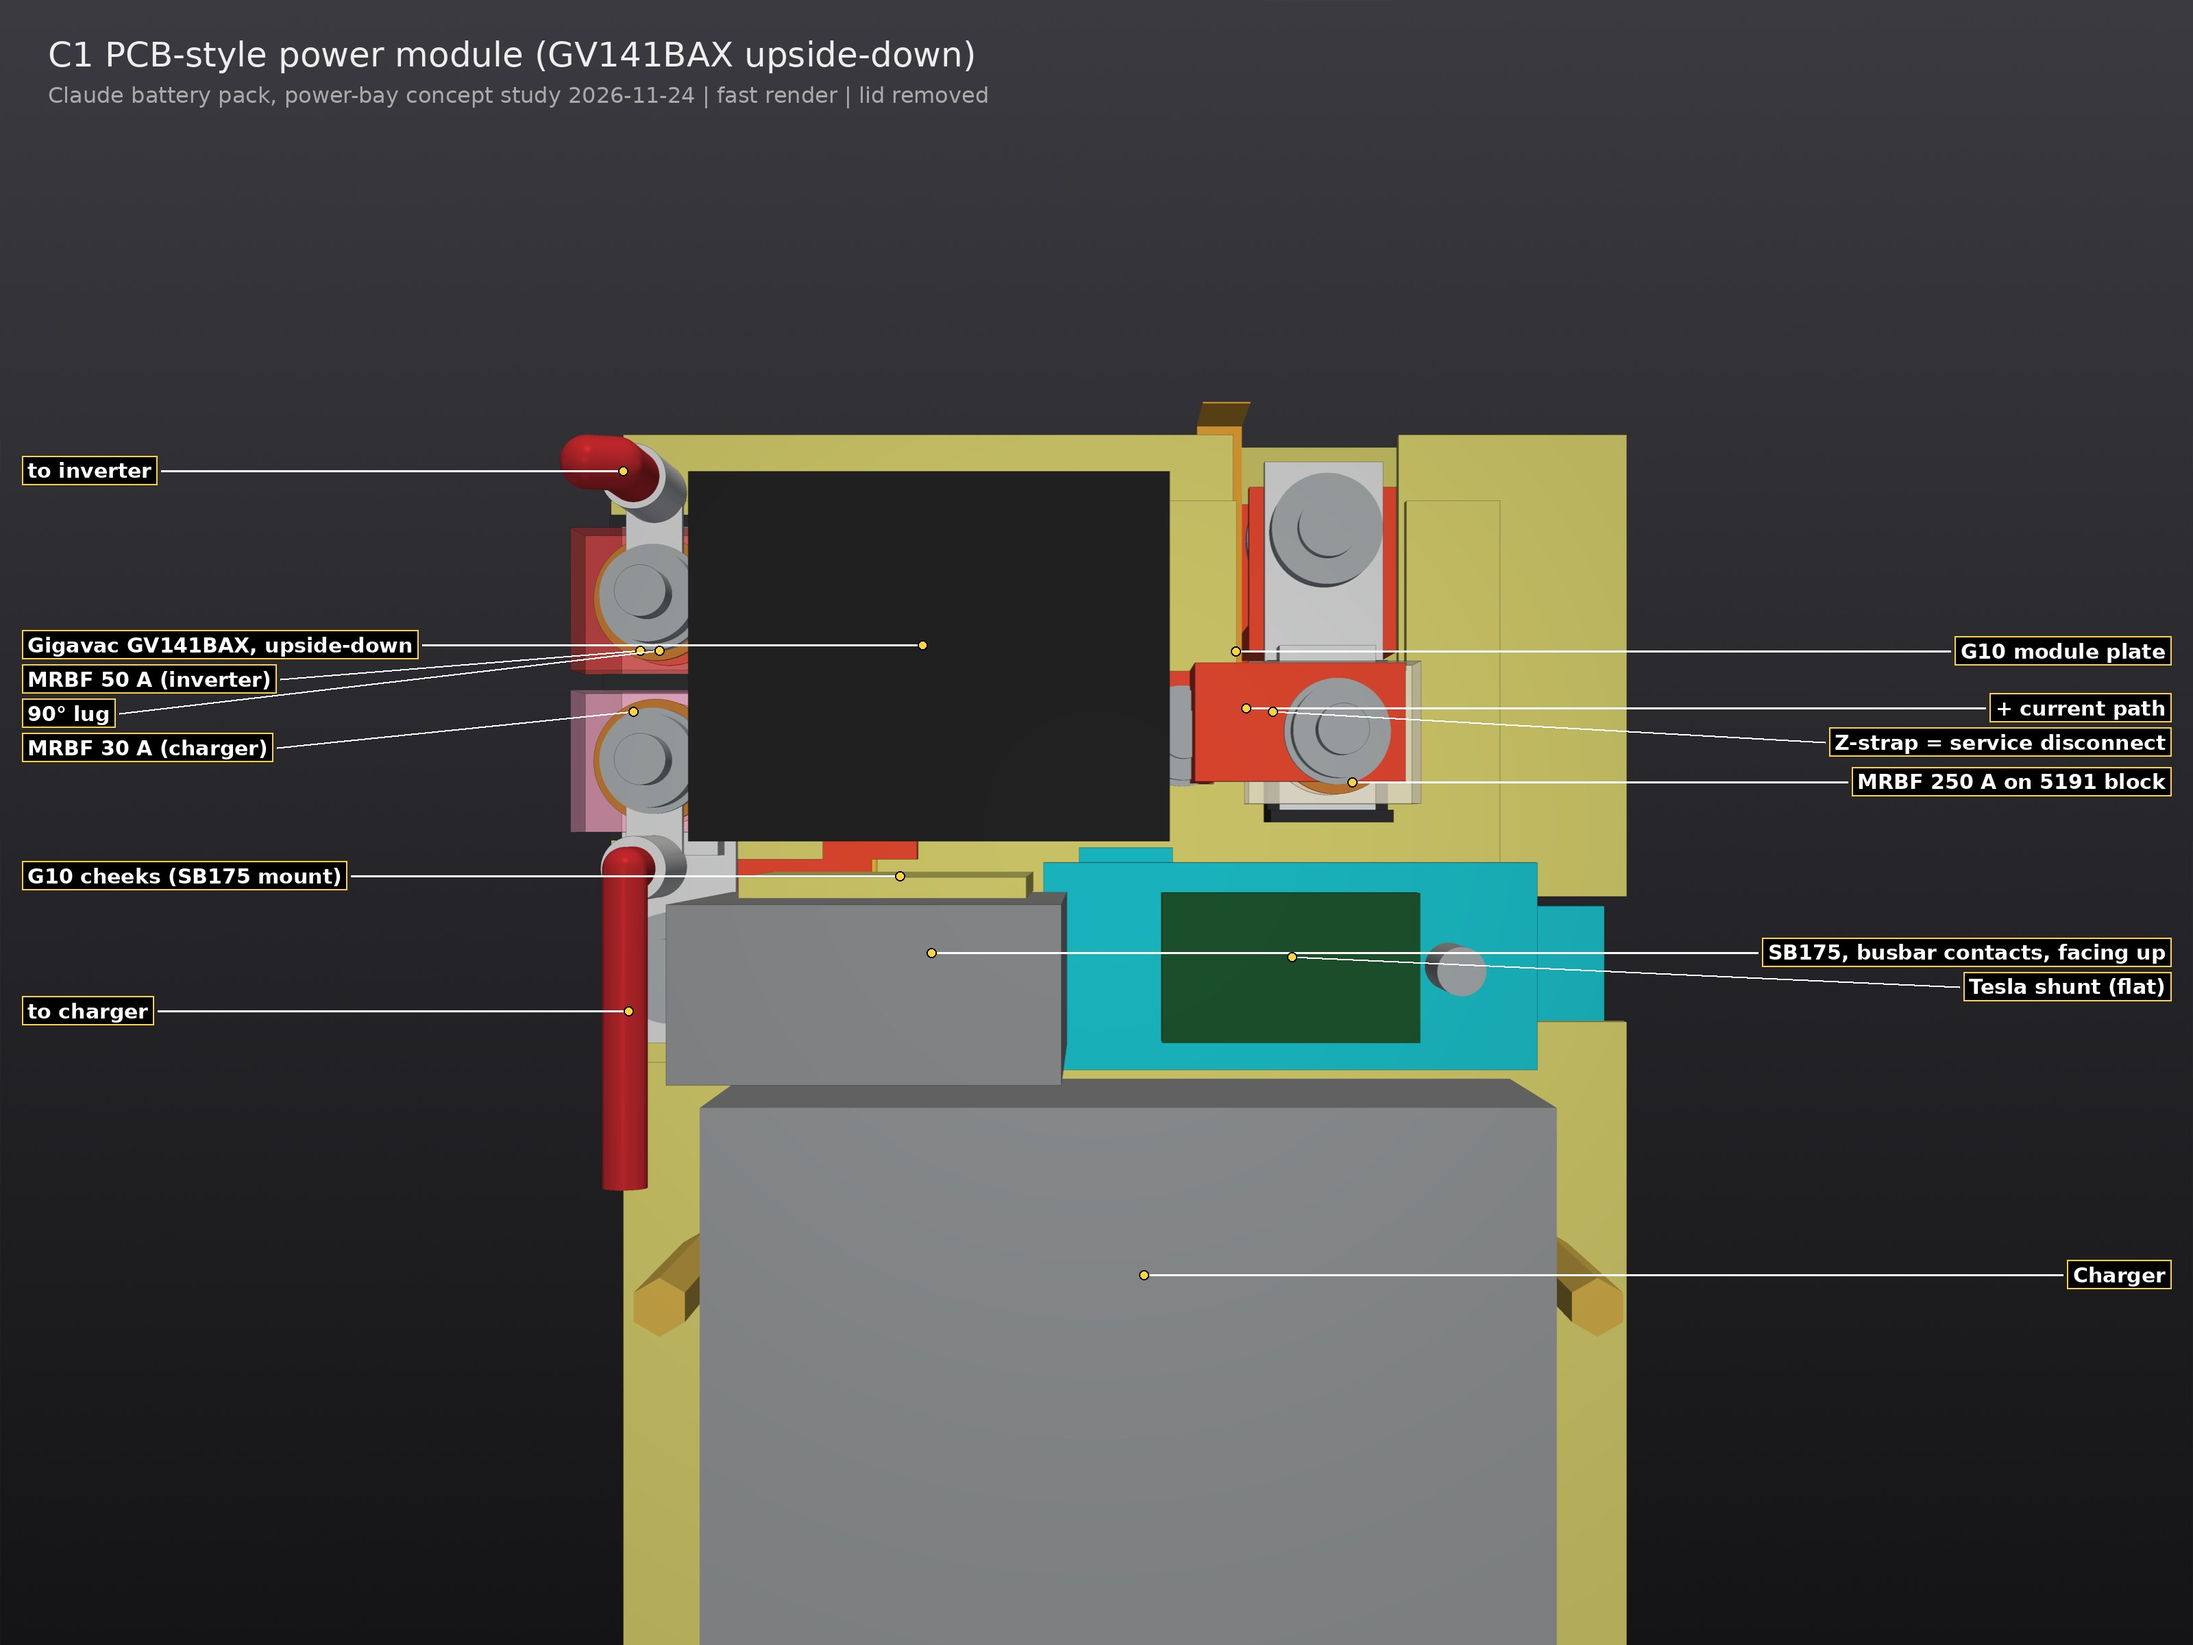
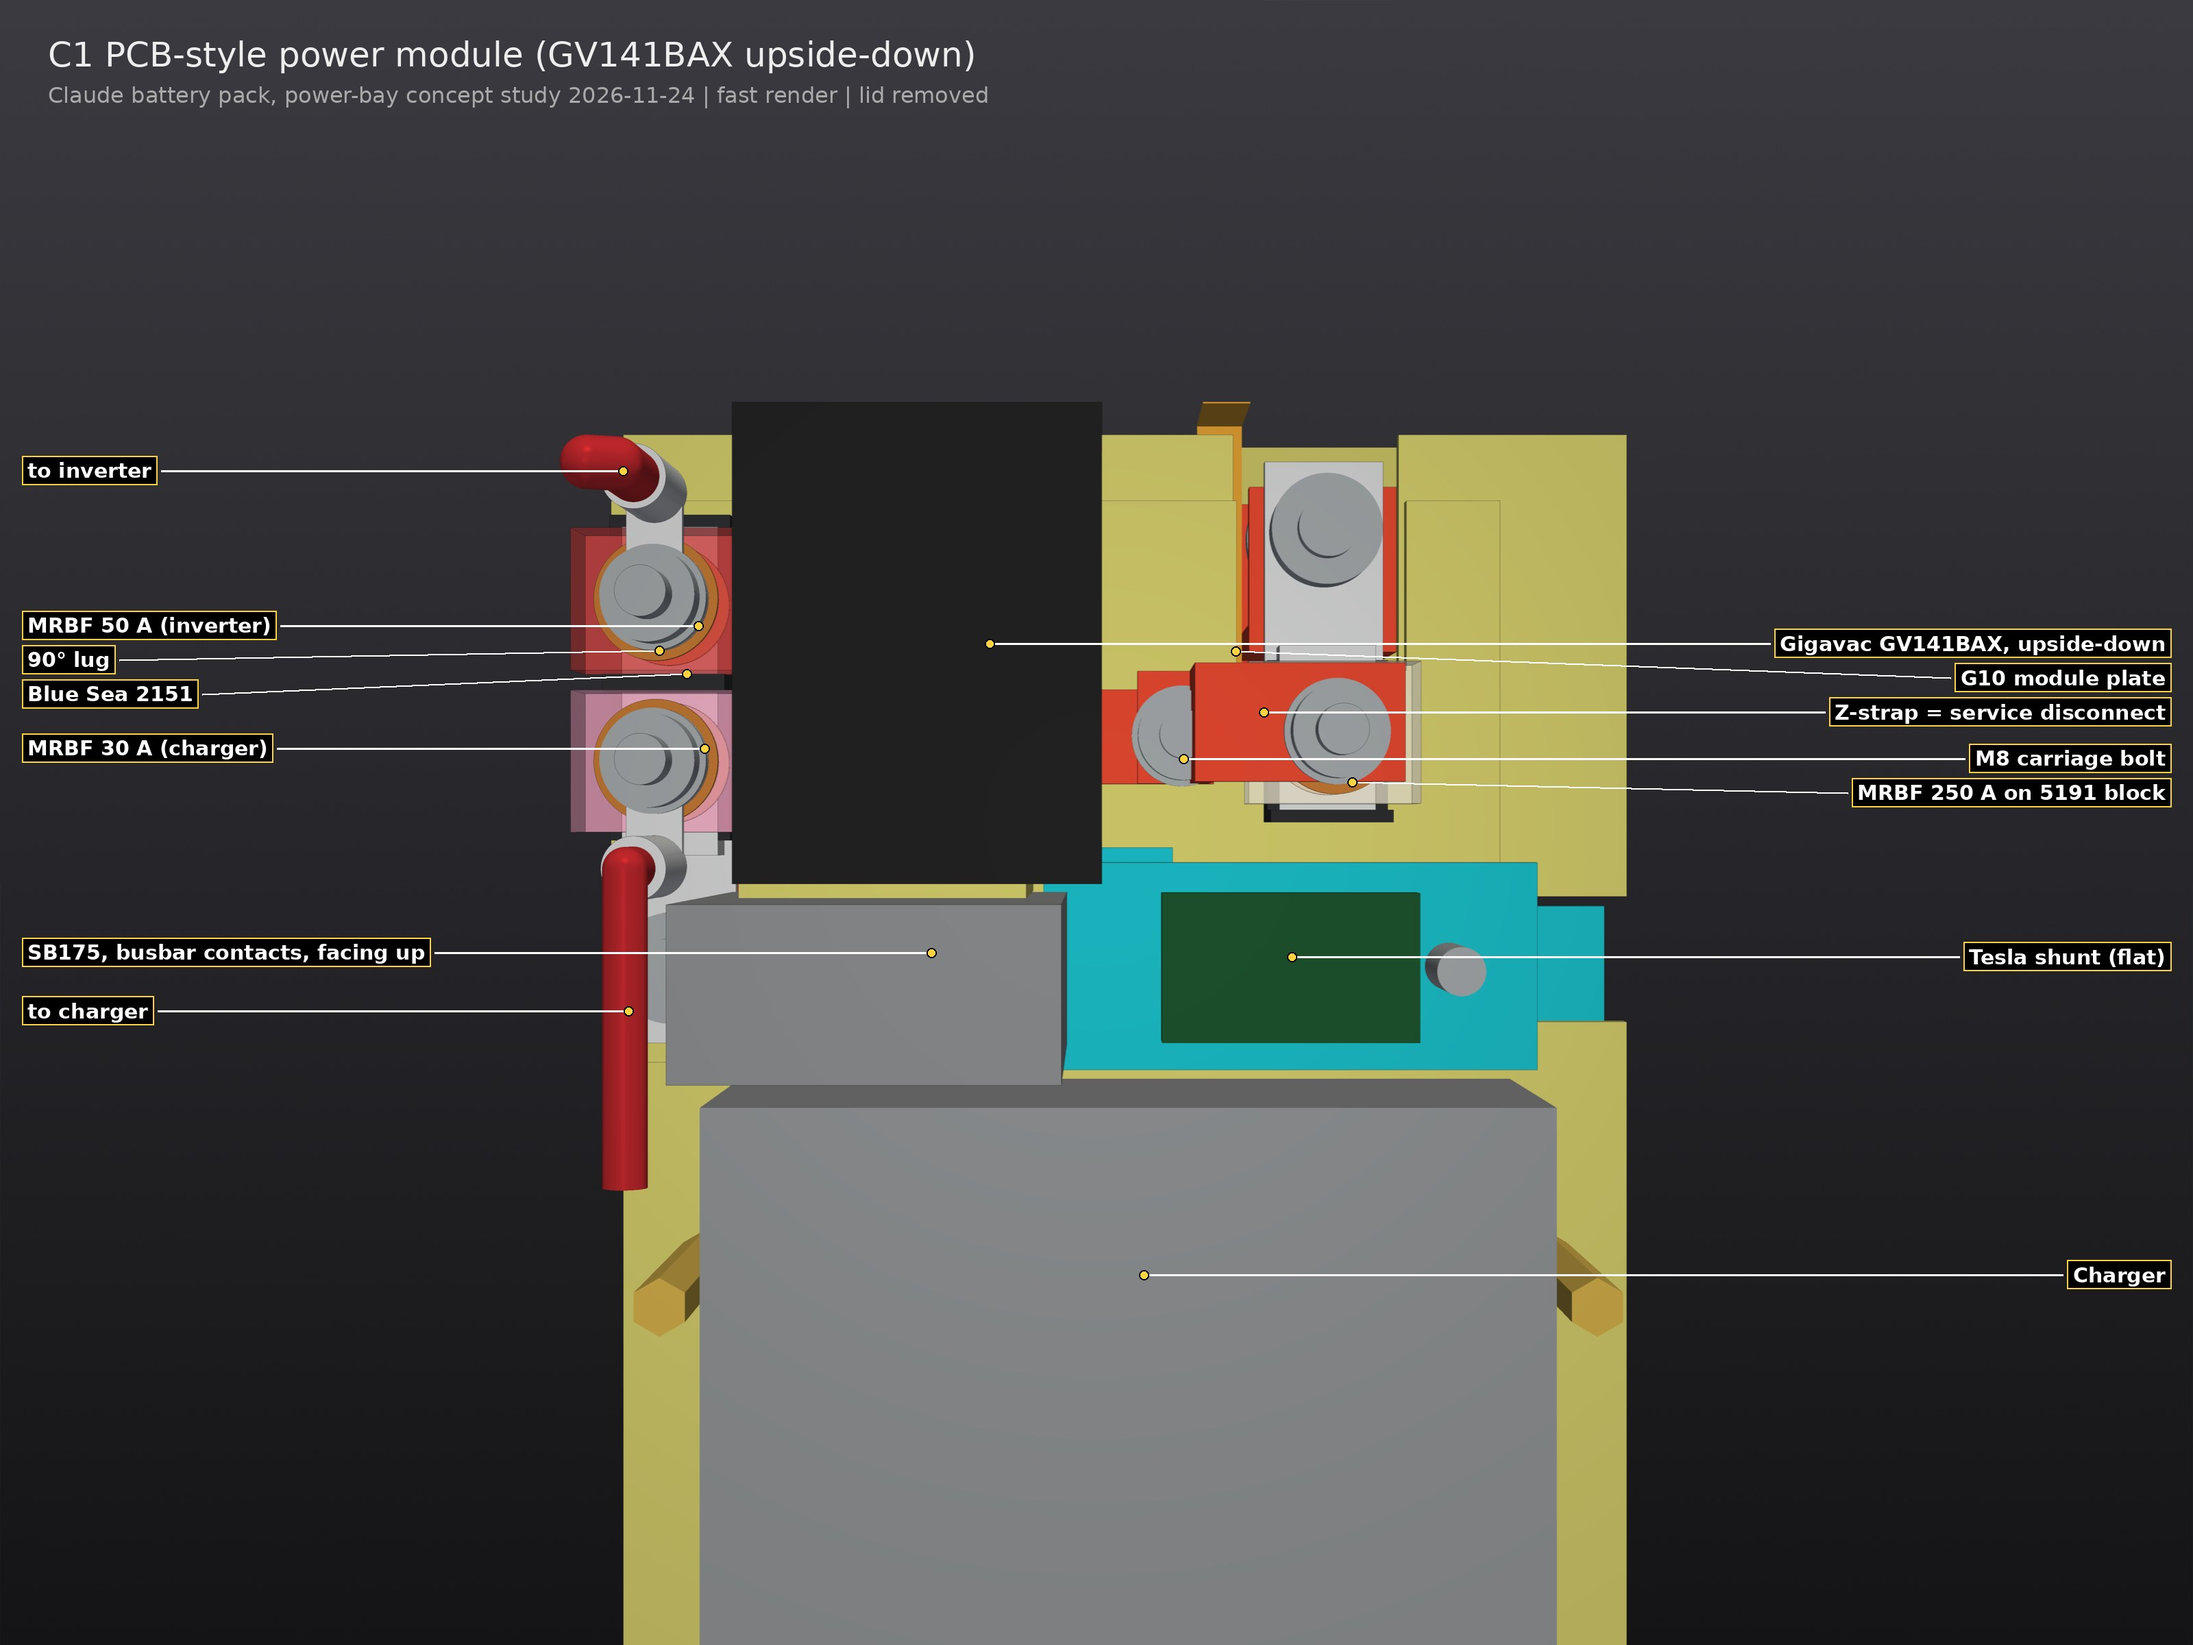
C1: contactor turned 90 deg so 2151 fuses lift out; fuse lift-out sweep check
Claude-Session: https://claude.ai/code/session_019xZm2J76p2BdyX92jNMr7E

diff --git a/cad/concepts/contactor/c1_power_module.py b/cad/concepts/contactor/c1_power_module.py
@@ -33,16 +33,16 @@ def build(variant="gv14"):
     for i, x0 in enumerate((SBX - 12.7 - 3.2, SBX + 12.7)):        # G10 cheeks bolted through the housing's two mounting holes
         c.add(f"g10_sb_cheek_{i}", box(x0, x0 + 3.2, SBY - 22, SBY + 22, Zp1, Zp1 + 52), "ins")
     # ---------- switch ----------
-    CX, CY = 120.0, 30.2                 # -11 mm in y vs 2026-11-23: makes room for the 2151 along the +y wall
+    CX, CY = 122.0, 32.0                 # turned 90 deg (terminals along x, flange along x): flange stops at y 59.9, so the 2151 fuses lift out
     if variant == "gv14":
-        ct, (t1, t2) = gv14_pcb(CX, CY, Zp1, axis="y", flip=True)
+        ct, (t1, t2) = gv14_pcb(CX, CY, Zp1, axis="x", flip=True)
         c.add("contactor_gv14_pcb", ct)
     elif variant == "gv14up":
         # GV141BAX upright version mounted upside-down: studs (M8, ~12.7 long UNCONFIRMED) down through the bars,
         # nuts underneath (bench). Body 59.9 x 55.7, mounting flange 72.5 long at the top, unused. UNCONFIRMED outline.
-        t1, t2 = (CX, CY - 13.35), (CX, CY + 13.35)
-        ct = box(CX - 27.85, CX + 27.85, CY - 29.95, CY + 29.95, Zp1 + 2.0, Zp1 + 59.9)
-        ct += box(CX - 27.85, CX + 27.85, CY - 36.25, CY + 36.25, Zp1 + 53.9, Zp1 + 59.9)
+        t1, t2 = (CX - 13.35, CY), (CX + 13.35, CY)                      # t1 = line (-x, over the in-bar), t2 = load (+x)
+        ct = box(CX - 29.95, CX + 29.95, CY - 27.85, CY + 27.85, Zp1 + 2.0, Zp1 + 59.9)
+        ct += box(CX - 36.25, CX + 36.25, CY - 27.85, CY + 27.85, Zp1 + 53.9, Zp1 + 59.9)
         for (x, y) in (t1, t2):
             ct += cyl_z(x, y, Zp1, Zp1 + 2.0, 8.0)                          # terminal boss on the bar
         c.add("contactor_gv141bax_inverted", ct)
@@ -50,7 +50,7 @@ def build(variant="gv14"):
             c.add(f"hw_stud_ct_{i}", cyl_z(x, y, Zp0 - 3.175 - 8.0, Zp1 + 2.0, 4.0))          # M8 stud of the contactor
             c.add(f"nut_m8_{i}", cyl_z(x, y, Zp0 - 3.175 - 6.5, Zp0 - 3.175, 7.3))            # M8 flange nut under the plate
     else:   # back-to-back FET board bridging the in-bar and the load bar
-        t1, t2 = (CX, CY - 13.35), (CX, CY + 13.35)
+        t1, t2 = (CX - 13.35, CY), (CX + 13.35, CY)
         c.add("fet_board", box(CX - 30, CX + 30, CY - 28, CY + 28, Zp1, Zp1 + 1.6), "ins")
         c.add("fet_parts", box(CX - 26, CX + 26, CY - 8, CY + 8, Zp1 + 1.6, Zp1 + 8.0))
         c.add("fet_driver", box(CX - 26, CX - 10, CY + 12, CY + 24, Zp1 + 1.6, Zp1 + 4.0))
@@ -60,7 +60,7 @@ def build(variant="gv14"):
     pc += box(124.0, 128.76, -46.0, -21.0, Z0, Zp1)                    # riser (moved from x 138: the M10 head under the flange hit it)
     pc += box(124.0, 152.0, -46.0, -21.0, Zp0, Zp1)                     # flange = 5191 seat, top flush with the module copper
     c.add("bus_pack_pos", pc, "pos")
-    inb = box(101.6, t1[0] + 8.0, t1[1] - 8.0, t1[1] + 8.0, Zp0, Zp1) + box(101.6, 117.6, -15.0, t1[1] - 8.0, Zp0, Zp1)
+    inb = box(101.6, 117.6, -15.0, t1[1] + 8.0, Zp0, Zp1)               # straight column: strap foot -> T1
     c.add("bus_mod_in", inb, "pos")                                       # flat-cut L: no bends
     # main fuse: Blue Sea 5191 on the M10 stud in the + flange, pointing -x; MRBF 250 A on it. Output is the fuse TOP,
     # so a Z-strap (1/8 in copper, 22 wide, 2 bends) brings it back down to the in-bar. Strap = last part in = service disconnect.
@@ -75,8 +75,9 @@ def build(variant="gv14"):
     c.add("strap_main", st, "pos")
     c.add("hw_nut_main", stud_stack(sx, sy, zs1) - cyl_z(sx, sy, zs1 - 1, zs1 + 10, 4.0))
     c.add("hw_nut_strapfoot", stud_stack(sx, -9.5, Zp1 + 3.175) - cyl_z(sx, -9.5, Zp1, Zp1 + 14, 4.0))
-    ld = box(88.7, t2[0] + 8.0, t2[1] - 8.0, t2[1] + 8.0, Zp0, Zp1)      # load bar from T2 (x >= 88.7: 10 mm to the - tab corner)
-    ld += box(SBX - 8.0, 88.7, 43.2, 86.0, Zp0, Zp1)                       # SB+ pad + branch to the 2151 (y >= 43.2: 10.8 mm to the - tab)
+    ld = box(t2[0] - 8.0, t2[0] + 8.0, t2[1] - 8.0, 50.0, Zp0, Zp1)        # T2 pad (x >= 127.35: 9.75 mm to the in-bar)
+    ld += box(SBX - 8.0, t2[0] + 8.0, 50.0, 86.0, Zp0, Zp1)                # wide bar y 50-86 (10 mm above the in-bar), under the 2151
+    ld += box(SBX - 8.0, 88.7, 43.2, 50.0, Zp0, Zp1)                       # SB+ pad (y >= 43.2: 10.8 mm to the - tab)
     c.add("bus_mod_load", ld, "pos")
     # Blue Sea 2151 dual MRBF on the M10 stud in the branch, along +x by the +y wall; fuses land beside the contactor
     bp, bst, bzt = bs_block("2151", 70.7, 76.0, Zp1, d=(1, 0), prefix="bs2151")
@@ -130,7 +131,7 @@ def build(variant="gv14"):
     c.paths["pos"] = [(100.0, -33.5, zcol), (126.4, -33.5, zcol), (126.4, -33.5, zc), (144.0, -33.5, zc), (144.0, -33.5, Zp1 + 1.25),
                       (123.25, -33.5, Zp1 + 1.25), (123.25, -33.5, Zp1 + 9.75), (sx + 8.0, -33.5, Zp1 + 9.75), (sx + 8.0, -33.5, mzt + 1.6),
                       (sx, -12.4, mzt + 1.6), (sx, -12.4, zc), (sx, -8.0, zc), (sx, t1[1], zc), (t1[0], t1[1], zc), (t2[0], t2[1], zc),
-                      (SBX, t2[1], zc), (SBX, sbp[1], zc)]
+                      (t2[0], 58.0, zc), (SBX, 58.0, zc), (SBX, sbp[1], zc)]
     c.paths["neg"] = neg_band_path(71.0, -63.6) + [(71.0, -63.6, zc), (71.0, sh_y1 - 68.5, zc), (71.0, sh_y1 - 15.0, zc),
                       (SBX, sbn[1], zc)]
     c.joints = {"pos (after cell collector)": "5191 tab (M10), fuse bottom, fuse top, strap foot, T1, T2, SB+ = 7", "neg (after band)": "shunt A, shunt B, SB- = 3"}
@@ -145,12 +146,35 @@ def build(variant="gv14"):
                 ("bus_pack_pos", "+ riser from cells 7-8"), ("bus_pack_neg", "- band + riser"), ("bus_mod_load", "+ load bar"),
                 ("bus_mod_in", "+ in-bar"), ("bus_mod_neg", "- tab to SB175"), ("tray1", "G10 tray 1"), ("charger", "Charger"),
                 ("g10_sb_cheek", "G10 cheeks (SB175 mount)"), ("path_pos", "+ current path"), ("path_neg", "- current path")]
+    c.lift = {n: 44.5 - 11.0 for n in c.parts if n.startswith(("bs2151_fuse_", "bs5191_fuse_")) and n.endswith("_body")}
     return c
+
+def lift_check(c):
+    """Fuse removal: lid, cables, lugs, nuts and the Z-strap off; slide each fuse housing straight up by the stud length."""
+    from build123d import Pos
+    C = ctx(tuple(p for p in CHASSIS + OBSTACLES if p not in ("lid", "panel_", "screws_lid", "pem_")))
+    gone = ("lug_", "hw_nut", "cable_", "strap_main", "cap_", "hw_m10nut", "path_")
+    out = {}
+    for n, dz in c.lift.items():
+        pre = n.split("_fuse_")[0]; me = n.replace("_body", "")
+        sweep = c.parts[n]
+        for k in range(1, 8):
+            sweep = sweep + Pos(0, 0, dz * k / 7) * c.parts[n]
+        hits = []
+        for m, sh in list(c.parts.items()) + list(C.items()):
+            if m.startswith(gone) or m.startswith(me) or m.startswith(pre + "_stud") or m.startswith(pre + "_body") or m == n:
+                continue
+            x = sweep & sh
+            if x is not None and x.volume > 0.5:
+                hits.append((m, round(x.volume, 1)))
+        out[n] = hits
+    return out
 
 if __name__ == "__main__":
     import json
     for v in sys.argv[1:] or ["gv14"]:
         c = build(v)
         r = c.check()
+        r["fuse_lift_out"] = lift_check(c)
         c.export()
         print(json.dumps(r, indent=1))

diff --git a/docs/contactor-mounting.md b/docs/contactor-mounting.md
@@ -257,3 +257,16 @@ Model: `cad/concepts/contactor/lib.py` (`bs_block`, `bs_cap`, `lug90`, `stud_sta
 
 ![C1 with real fuse blocks](img/contactor/c1_module_gv14up_iso.jpg)
 ![C1 top](img/contactor/c1_module_gv14up_top.jpg)
+
+**Rev 2026-11-24 b: contactor turned 90° (fuse service).** The GV141BAX mounting flange (at z 292–298, out to y 66.45) blocked both 2151 fuses from sliding off their studs. The fuses have to rise 33.5 mm, and their housings start at y 62.1. A fuse that can't come out without pulling the module fails A-rules.
+- **Options:**
+  - A. GV14 PCB-mount, which has no flange: 0 in stock.
+  - B. Turn the GV141BAX 90°: chosen.
+  - C. Move it another 4.3 mm toward −y: strap foot clash, and + to − drops to 10.07 mm.
+  - D. Pull the module to change a fuse.
+- **Now:** contactor at (122, 32), terminals along x. T1 (line) at x 108.65 sits on a straight in-bar column from the strap foot. T2 (load) at x 135.35 feeds a wide load bar at y 50–86 that runs under the 2151 to the SB+ pad. The flange stops at y 59.9.
+- **Main fuse:** the strap-foot nut now has 5 mm to the contactor (was 1.25).
+- **New check `lift_check`:** with the lid, cables, lugs, nuts and strap off, each fuse is swept up its stud. All 3 fuses are clear in all 3 variants.
+- **Other checks:** 0 interferences; + to − 10.4 mm; pack to chassis 7.3 mm.
+- **Cost:** the + path is now 352 mm, up from 306, because the load bar detours around the in-bar.
+- **Trap T10:** static interference checks miss removal paths. Rule: every serviceable part gets a sweep check.
